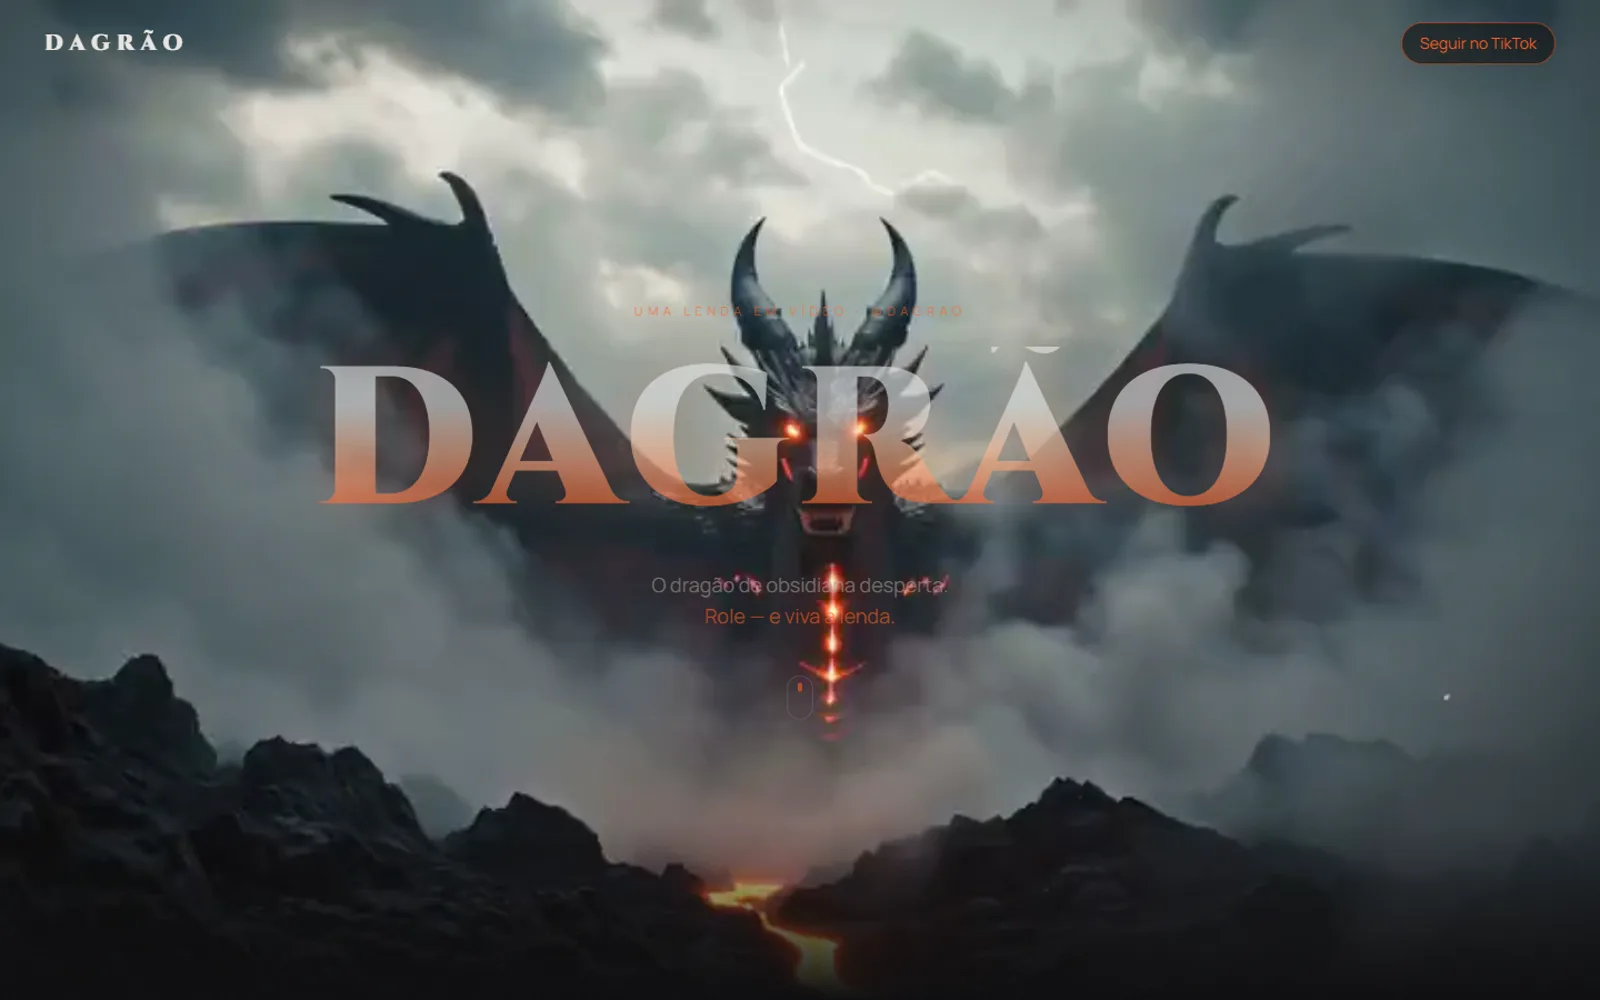
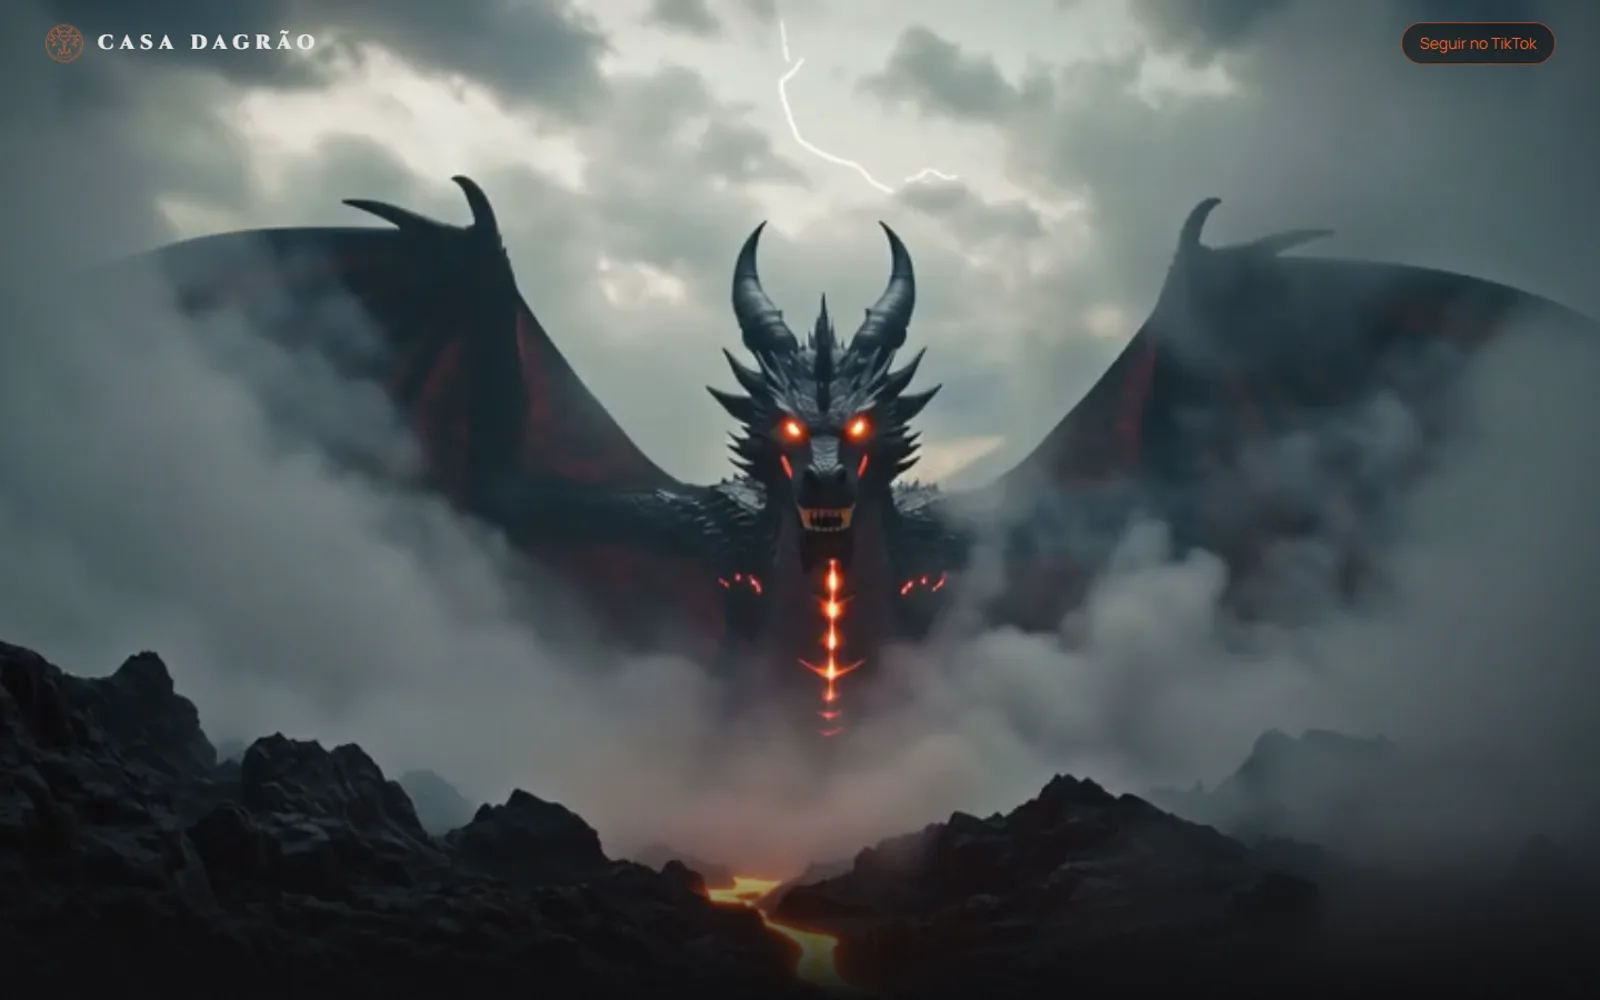
portfolio: DAGRAO house edition (abertura de serie, brasao, estandartes)
Claude-Session: https://claude.ai/code/session_011EJhQWDArQG2nvjb7zeX1p

diff --git a/src/lib/content.ts b/src/lib/content.ts
@@ -506,7 +506,7 @@ export const PROJECTS: Project[] = [
     slug: "dagrao",
     category: "site",
     title: "DAGRÃO",
-    tagline: { pt: "Lenda em vídeo · o dragão desperta no scroll", en: "A legend on video · the dragon awakens on scroll" },
+    tagline: { pt: "Lenda em vídeo · abertura de série + dragão no scroll", en: "A legend on video · TV-series opening + scroll-driven dragon" },
     problem: { pt: "Criadores de conteúdo no TikTok não têm um lar próprio na web — o link na bio costuma ser uma lista genérica de botões, sem nada do universo que os vídeos constroem.", en: "TikTok creators have no real home on the web — the bio link is usually a generic button list with none of the universe their videos build." },
     result: { pt: "Um site-experiência pro canal fictício @dagrao: o vídeo do dragão de obsidiana é SCRUBADO pelo scroll (re-encodado com todos os frames como keyframe pra busca ser instantânea), com capítulos de lore por cima, título com brasa por dentro, fagulhas subindo e uma seção TikTok com o corte vertical 9:16 rodando num mockup de celular — o funil termina em 'Seguir @dagrao'.", en: "An experience site for the fictional @dagrao channel: the obsidian dragon video is SCRUBBED by scroll (re-encoded with every frame as a keyframe for instant seeking), with lore chapters overlaid, an ember-lit title, rising sparks and a TikTok section playing the vertical 9:16 cut inside a phone mockup — the funnel ends at 'Follow @dagrao'.", },
     stack: ["Next.js", "TypeScript", "GSAP", "Lenis", "Tailwind", "FFmpeg"],